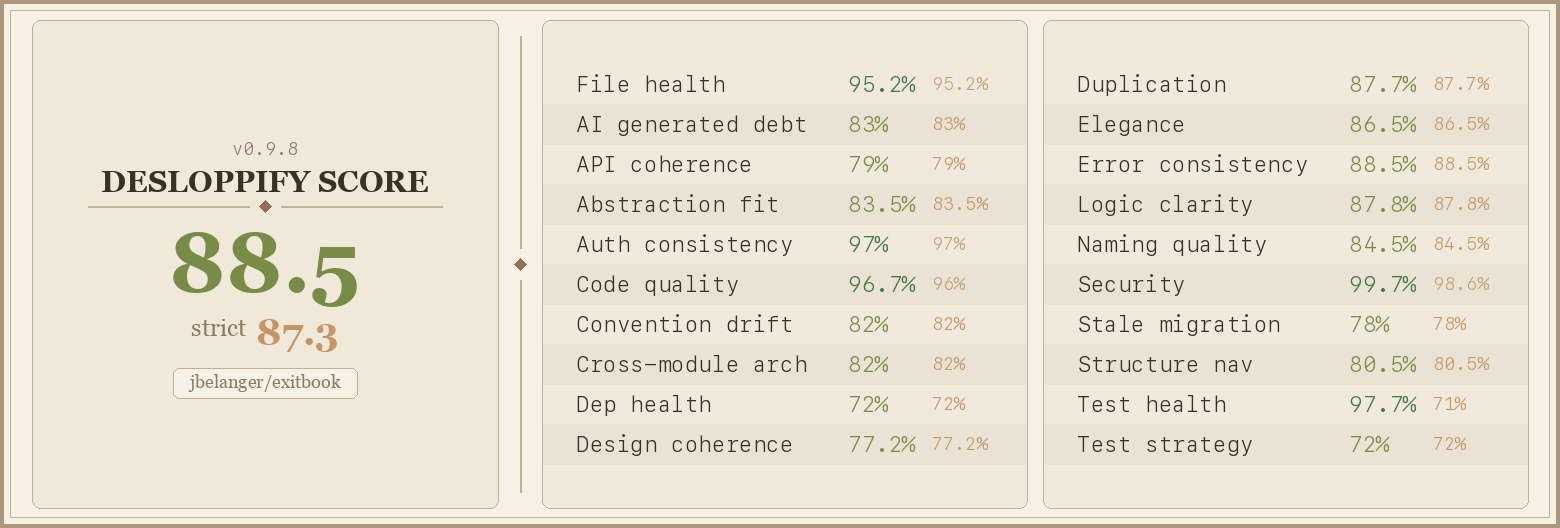
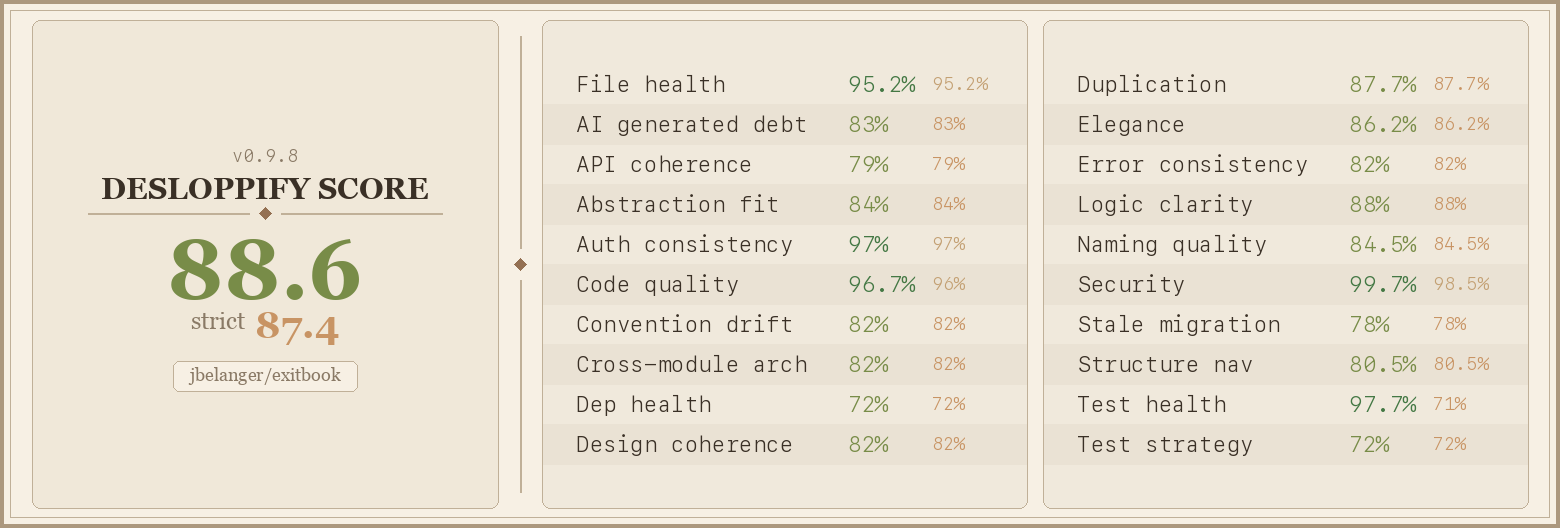
desloppify: fix logic_clarity, abstraction_fitness, design_coherence
- Replace `lookaheadDays || undefined` with `?? undefined` to preserve 0
- Hoist FX guard before report generation block (guard-first ordering)
- Delete dead IRawDataMapper<> generic — no implementations existed
- Rename ExportHandler → TransactionsExportHandler (feature prefix convention)
- Rename ProcessHandler → ReprocessHandler (feature prefix convention)
- Rename ViewPricesHandler → PricesViewHandler (feature-first word order)

diff --git a/apps/cli/src/features/reprocess/command/reprocess-handler.ts b/apps/cli/src/features/reprocess/command/reprocess-handler.ts
@@ -17,14 +17,14 @@ export interface ProcessResultWithMetrics {
   runStats: MetricsSummary;
 }
 
-interface ProcessHandlerParams {
+interface ReprocessHandlerParams {
   /** Reprocess only a specific account ID */
   accountId?: number | undefined;
 }
 
-const logger = getLogger('ProcessHandler');
+const logger = getLogger('ReprocessHandler');
 
-export class ProcessHandler implements InfrastructureHandler<ProcessHandlerParams, ProcessResultWithMetrics> {
+export class ReprocessHandler implements InfrastructureHandler<ReprocessHandlerParams, ProcessResultWithMetrics> {
   constructor(
     private readonly database: DataContext,
     private readonly processingWorkflow: ProcessingWorkflow,
@@ -32,7 +32,7 @@ export class ProcessHandler implements InfrastructureHandler<ProcessHandlerParam
     private readonly instrumentation: InstrumentationCollector
   ) {}
 
-  async execute(params: ProcessHandlerParams): Promise<Result<ProcessResultWithMetrics, Error>> {
+  async execute(params: ReprocessHandlerParams): Promise<Result<ProcessResultWithMetrics, Error>> {
     // 1. Plan: resolve accounts, guard incomplete imports (no mutations)
     const planResult = await this.processingWorkflow.prepareReprocess(params);
     if (planResult.isErr()) {
@@ -93,15 +93,15 @@ export class ProcessHandler implements InfrastructureHandler<ProcessHandlerParam
   }
 }
 
-export async function createProcessHandler(
+export async function createReprocessHandler(
   ctx: CommandContext,
   database: DataContext,
   registry: AdapterRegistry
-): Promise<Result<ProcessHandler, Error>> {
+): Promise<Result<ReprocessHandler, Error>> {
   try {
     const infra = await createIngestionInfrastructure(ctx, database, registry);
 
-    return ok(new ProcessHandler(database, infra.processingWorkflow, infra.ingestionMonitor, infra.instrumentation));
+    return ok(new ReprocessHandler(database, infra.processingWorkflow, infra.ingestionMonitor, infra.instrumentation));
   } catch (error) {
     return err(error instanceof Error ? error : new Error(String(error)));
   }

diff --git a/apps/cli/src/features/prices/command/prices-view.ts b/apps/cli/src/features/prices/command/prices-view.ts
@@ -14,7 +14,7 @@ import { buildViewMeta } from '../../shared/view-utils.js';
 import { PricesViewApp, createCoverageViewState, createMissingViewState } from '../view/index.js';
 
 import { PricesSetHandler } from './prices-set-handler.js';
-import { ViewPricesHandler } from './prices-view-handler.js';
+import { PricesViewHandler } from './prices-view-handler.js';
 import type {
   AssetBreakdownEntry,
   PriceCoverageInfo,
@@ -112,7 +112,7 @@ async function executeCoverageViewTUI(params: ViewPricesParams): Promise<void> {
   try {
     await runCommand(async (ctx) => {
       const database = await ctx.database();
-      const handler = new ViewPricesHandler(database);
+      const handler = new PricesViewHandler(database);
 
       const detailResult = await handler.executeCoverageDetail(params);
       if (detailResult.isErr()) {
@@ -178,7 +178,7 @@ async function executeMissingViewTUI(params: ViewPricesParams): Promise<void> {
     await runCommand(async (ctx) => {
       const database = await ctx.database();
       const overrideStore = new OverrideStore(ctx.dataDir);
-      const handler = new ViewPricesHandler(database);
+      const handler = new PricesViewHandler(database);
 
       const missingResult = await handler.executeMissing(params);
       if (missingResult.isErr()) {
@@ -225,7 +225,7 @@ async function executeViewPricesJSON(params: ViewPricesParams): Promise<void> {
   try {
     await runCommand(async (ctx) => {
       const database = await ctx.database();
-      const handler = new ViewPricesHandler(database);
+      const handler = new PricesViewHandler(database);
 
       const result = await handler.execute(params);
 
@@ -280,7 +280,7 @@ async function executeMissingViewJSON(params: ViewPricesParams): Promise<void> {
   try {
     await runCommand(async (ctx) => {
       const database = await ctx.database();
-      const handler = new ViewPricesHandler(database);
+      const handler = new PricesViewHandler(database);
 
       const result = await handler.executeMissing(params);
 

diff --git a/apps/cli/src/features/reprocess/command/reprocess.ts b/apps/cli/src/features/reprocess/command/reprocess.ts
@@ -9,7 +9,7 @@ import { outputSuccess } from '../../shared/json-output.js';
 import { ProcessCommandOptionsSchema } from '../../shared/schemas.js';
 import { isJsonMode } from '../../shared/utils.js';
 
-import { createProcessHandler, type ProcessResultWithMetrics } from './reprocess-handler.js';
+import { createReprocessHandler, type ProcessResultWithMetrics } from './reprocess-handler.js';
 
 /**
  * Process command options validated by Zod at CLI boundary
@@ -72,7 +72,7 @@ async function executeReprocessJSON(options: ProcessCommandOptions, registry: Ad
   try {
     await runCommand(async (ctx) => {
       const database = await ctx.database();
-      const handlerResult = await createProcessHandler(ctx, database, registry);
+      const handlerResult = await createReprocessHandler(ctx, database, registry);
       if (handlerResult.isErr()) {
         displayCliError('reprocess', handlerResult.error, ExitCodes.GENERAL_ERROR, 'json');
       }
@@ -101,7 +101,7 @@ async function executeReprocessTUI(options: ProcessCommandOptions, registry: Ada
   try {
     await runCommand(async (ctx) => {
       const database = await ctx.database();
-      const handlerResult = await createProcessHandler(ctx, database, registry);
+      const handlerResult = await createReprocessHandler(ctx, database, registry);
       if (handlerResult.isErr()) {
         displayCliError('reprocess', handlerResult.error, ExitCodes.GENERAL_ERROR, 'text');
       }

diff --git a/packages/accounting/src/cost-basis/workflow/cost-basis-workflow.ts b/packages/accounting/src/cost-basis/workflow/cost-basis-workflow.ts
@@ -55,7 +55,7 @@ export class CostBasisWorkflow {
 
     const jurisdictionModule = jurisdictionModuleResult.value;
     const filteredResult = this.filterTransactionsForWindow(transactions, config, {
-      lookaheadDays: jurisdictionModule.workflow.lookaheadDays || undefined,
+      lookaheadDays: jurisdictionModule.workflow.lookaheadDays ?? undefined,
     });
     if (filteredResult.isErr()) return err(filteredResult.error);
 
@@ -88,8 +88,12 @@ export class CostBasisWorkflow {
 
     const { lots, disposals, lotTransfers } = summary;
 
+    if (config.currency !== 'USD' && !this.fxRateProvider) {
+      return err(new Error('FX rate provider required for non-USD currency conversion'));
+    }
+
     let report: CostBasisReport | undefined;
-    if (config.currency !== 'USD' && this.fxRateProvider) {
+    if (config.currency !== 'USD') {
       const reportResult = await this.generateReport(
         summary.calculation,
         disposals,
@@ -101,8 +105,6 @@ export class CostBasisWorkflow {
         return err(reportResult.error);
       }
       report = reportResult.value;
-    } else if (config.currency !== 'USD' && !this.fxRateProvider) {
-      return err(new Error('FX rate provider required for non-USD currency conversion'));
     }
 
     const workflowResult: CostBasisWorkflowResult = {

diff --git a/apps/cli/src/features/reprocess/command/__tests__/reprocess-handler.test.ts b/apps/cli/src/features/reprocess/command/__tests__/reprocess-handler.test.ts
@@ -4,7 +4,7 @@ import type { DataContext } from '@exitbook/data';
 import type { ProcessingWorkflow } from '@exitbook/ingestion';
 import { beforeEach, describe, expect, test, vi, type Mock } from 'vitest';
 
-import { ProcessHandler } from '../reprocess-handler.js';
+import { ReprocessHandler } from '../reprocess-handler.js';
 
 vi.mock('@exitbook/logger', () => ({
   getLogger: () => ({
@@ -19,12 +19,12 @@ vi.mock('../../../shared/projection-runtime.js', () => ({
   resetProjections: vi.fn().mockResolvedValue(ok(undefined)),
 }));
 
-describe('ProcessHandler', () => {
+describe('ReprocessHandler', () => {
   let mockDatabase: DataContext;
   let mockProcessingWorkflow: { prepareReprocess: Mock; processImportedSessions: Mock };
   let mockIngestionMonitor: { abort: Mock; fail: Mock; stop: Mock };
   let mockInstrumentation: { getSummary: Mock };
-  let handler: ProcessHandler;
+  let handler: ReprocessHandler;
 
   beforeEach(() => {
     vi.clearAllMocks();
@@ -46,7 +46,7 @@ describe('ProcessHandler', () => {
       getSummary: vi.fn().mockReturnValue({ totalRequests: 0 }),
     };
 
-    handler = new ProcessHandler(
+    handler = new ReprocessHandler(
       mockDatabase,
       mockProcessingWorkflow as unknown as ProcessingWorkflow,
       mockIngestionMonitor as never,

diff --git a/apps/cli/src/features/transactions/command/__tests__/transactions-export-handler.test.ts b/apps/cli/src/features/transactions/command/__tests__/transactions-export-handler.test.ts
@@ -6,17 +6,17 @@ import { type DataContext } from '@exitbook/data';
 import { beforeEach, describe, expect, it, vi, type Mock } from 'vitest';
 
 import { createPersistedTransaction } from '../../../shared/__tests__/transaction-test-utils.js';
-import { ExportHandler } from '../transactions-export-handler.js';
+import { TransactionsExportHandler } from '../transactions-export-handler.js';
 import type { ExportHandlerParams } from '../transactions-export-utils.js';
 
-describe('ExportHandler', () => {
+describe('TransactionsExportHandler', () => {
   let mockTransactionRepository: {
     findAll: Mock;
   };
   let mockTransactionLinkQueries: {
     findByTransactionIds: Mock;
   };
-  let handler: ExportHandler;
+  let handler: TransactionsExportHandler;
 
   beforeEach(() => {
     vi.clearAllMocks();
@@ -34,7 +34,7 @@ describe('ExportHandler', () => {
       transactionLinks: mockTransactionLinkQueries,
     } as unknown as DataContext;
 
-    handler = new ExportHandler(mockDb);
+    handler = new TransactionsExportHandler(mockDb);
   });
 
   const createMockTransaction = (id: number, source: string, assetSymbol: string): Transaction =>

diff --git a/packages/blockchain-providers/src/core/types/mapper.ts b/packages/blockchain-providers/src/core/types/mapper.ts
@@ -1,18 +1,1 @@
-import type { Result } from '@exitbook/core';
-
-import type { NormalizationError } from './errors.js';
-
-/**
- * Interface for blockchain-specific raw data mappers that transform
- * provider-specific data formats into normalized blockchain transactions
- */
-export interface IRawDataMapper<TRawData, TNormalizedData> {
-  /**
-   * Map raw provider data to normalized format
-   * Returns:
-   * - ok(data) if mapping succeeded
-   * - err({ type: 'skip', reason }) if transaction should be safely ignored
-   * - err({ type: 'error', message }) if mapping failed due to invalid data
-   */
-  map(providerData: TRawData, providerName: string): Result<TNormalizedData, NormalizationError>;
-}
+// IRawDataMapper was removed — no implementations existed.

diff --git a/apps/cli/src/features/transactions/command/transactions-export.ts b/apps/cli/src/features/transactions/command/transactions-export.ts
@@ -63,12 +63,12 @@ async function executeTransactionsExportCommand(rawOptions: unknown): Promise<vo
   const options = parseResult.data;
   const isJsonMode = options.json ?? false;
 
-  const { ExportHandler } = await import('./transactions-export-handler.js');
+  const { TransactionsExportHandler } = await import('./transactions-export-handler.js');
 
   try {
     await runCommand(async (ctx) => {
       const database = await ctx.database();
-      const exportHandler = new ExportHandler(database);
+      const exportHandler = new TransactionsExportHandler(database);
 
       const format = options.format ?? 'csv';
       const csvFormat = options.csvFormat ?? (format === 'csv' ? 'normalized' : undefined);

diff --git a/apps/cli/src/features/transactions/command/transactions-export-handler.ts b/apps/cli/src/features/transactions/command/transactions-export-handler.ts
@@ -6,7 +6,7 @@ import type { ExportHandlerParams, NormalizedCsvOutput } from './transactions-ex
 import { convertToCSV, convertToJSON, convertToNormalizedCSV } from './transactions-export-utils.js';
 import { readTransactionsForCommand } from './transactions-read-support.js';
 
-const logger = getLogger('ExportHandler');
+const logger = getLogger('TransactionsExportHandler');
 
 /**
  * Result of the export operation.
@@ -37,7 +37,7 @@ interface ExportOutput {
  * Export handler - encapsulates all export business logic.
  * Reusable by both CLI command and other contexts.
  */
-export class ExportHandler {
+export class TransactionsExportHandler {
   constructor(private readonly db: DataContext) {}
 
   /**

diff --git a/apps/cli/src/features/transactions/command/transactions-view.ts b/apps/cli/src/features/transactions/command/transactions-view.ts
@@ -144,8 +144,8 @@ async function executeTransactionsViewTUI(params: ViewTransactionsParams): Promi
 
       const initialState = createTransactionsViewState(viewItems, viewFilters, totalCount, categoryCounts);
 
-      const { ExportHandler } = await import('./transactions-export-handler.js');
-      const exportHandler = new ExportHandler(database);
+      const { TransactionsExportHandler } = await import('./transactions-export-handler.js');
+      const exportHandler = new TransactionsExportHandler(database);
 
       const onExport: OnExport = async (format, csvFormat) => {
         try {

diff --git a/apps/cli/src/features/shared/handler-contracts.ts b/apps/cli/src/features/shared/handler-contracts.ts
@@ -8,7 +8,7 @@
  *   new FooHandler(database)
  *   handler.execute(params) -> Result<T, Error>
  *   No factory. No cleanup. No abort.
- *   Examples: CostBasisHandler, ViewPricesHandler, LinksConfirmHandler
+ *   Examples: CostBasisHandler, PricesViewHandler, LinksConfirmHandler
  *
  * -- Tier 2: Infrastructure ---------------------------------------------
  *   createFooHandler(ctx, database, ...) -> handler

diff --git a/apps/cli/src/features/prices/command/prices-view-handler.ts b/apps/cli/src/features/prices/command/prices-view-handler.ts
@@ -28,7 +28,7 @@ interface MissingPricesResult {
 /**
  * Handler for viewing price coverage.
  */
-export class ViewPricesHandler {
+export class PricesViewHandler {
   constructor(private readonly db: DataContext) {}
 
   /**
